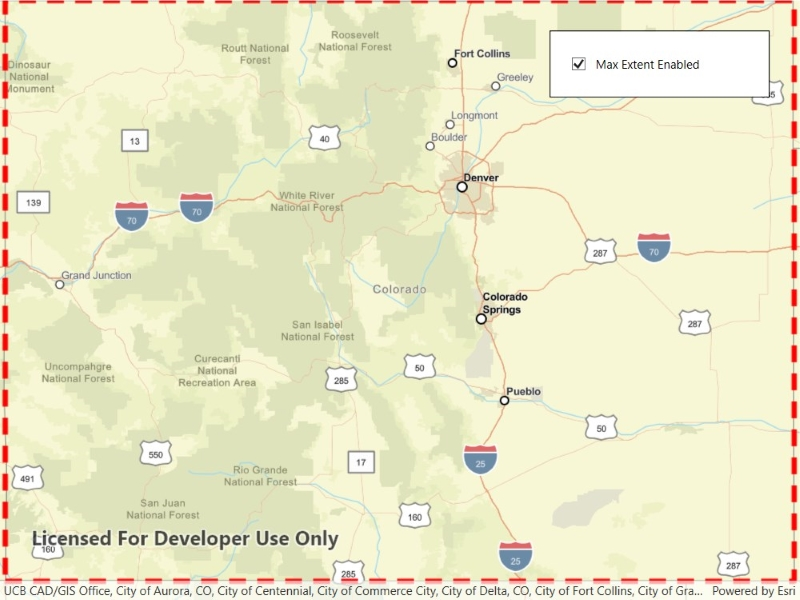
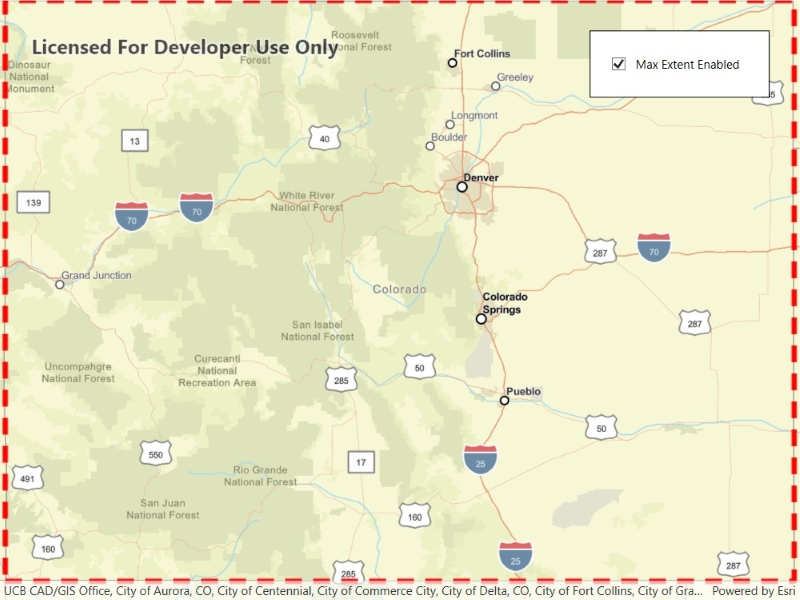
Updated screenshots and xaml

Changed region(s): [[0.0312, 0.87, 0.4375, 0.93], [0.6875, 0.03, 0.9375, 0.18], [0.0312, 0.06, 0.4375, 0.09]]

diff --git a/src/WPF/ArcGISRuntime.WPF.Viewer/Samples/Map/SetMaxExtent/SetMaxExtent.xaml b/src/WPF/ArcGISRuntime.WPF.Viewer/Samples/Map/SetMaxExtent/SetMaxExtent.xaml
@@ -4,21 +4,14 @@
              xmlns:esri="http://schemas.esri.com/arcgis/runtime/2013">
     <Grid>
         <esri:MapView x:Name="MyMapView" />
-        <Border MaxWidth="220" Style="{StaticResource BorderStyle}">
-            <Grid>
-                <Grid.ColumnDefinitions>
-                    <ColumnDefinition Width="auto" />
-                    <ColumnDefinition Width="auto" />
-                </Grid.ColumnDefinitions>
-                <CheckBox x:Name="MaxExtentCheckBox"
-                          Grid.Column="0"
-                          VerticalAlignment="Center"
-                          VerticalContentAlignment="Center"
-                          Checked="MaxExtentCheckBoxChanged"
-                          Unchecked="MaxExtentCheckBoxChanged">
-                    <Label Grid.Column="1" Content="Max Extent Enabled" />
-                </CheckBox>
-            </Grid>
+        <Border MaxWidth="180" Style="{StaticResource BorderStyle}">
+            <CheckBox x:Name="MaxExtentCheckBox"
+                      VerticalAlignment="Center"
+                      VerticalContentAlignment="Center"
+                      Checked="MaxExtentCheckBoxChanged"
+                      Unchecked="MaxExtentCheckBoxChanged">
+                <Label Content="Max Extent Enabled" />
+            </CheckBox>
         </Border>
     </Grid>
 </UserControl>

diff --git a/src/WinUI/ArcGISRuntime.WinUI.Viewer/Samples/Map/SetMaxExtent/SetMaxExtent.xaml b/src/WinUI/ArcGISRuntime.WinUI.Viewer/Samples/Map/SetMaxExtent/SetMaxExtent.xaml
@@ -4,21 +4,14 @@
              xmlns:esriUI="using:Esri.ArcGISRuntime.UI.Controls">
     <Grid>
         <esriUI:MapView x:Name="MyMapView" />
-        <Border MaxWidth="220" Style="{StaticResource BorderStyle}">
-            <Grid>
-                <Grid.ColumnDefinitions>
-                    <ColumnDefinition Width="auto" />
-                    <ColumnDefinition Width="auto" />
-                </Grid.ColumnDefinitions>
-                <CheckBox x:Name="MaxExtentCheckBox"
-                          Grid.Column="0"
-                          VerticalAlignment="Center"
-                          VerticalContentAlignment="Center"
-                          Checked="MaxExtentCheckBoxChanged"
-                          Unchecked="MaxExtentCheckBoxChanged">
-                    <TextBlock Grid.Column="1" Text="Max Extent Enabled" />
-                </CheckBox>
-            </Grid>
+        <Border MaxWidth="200" Style="{StaticResource BorderStyle}">
+            <CheckBox x:Name="MaxExtentCheckBox"
+                      VerticalAlignment="Center"
+                      VerticalContentAlignment="Center"
+                      Checked="MaxExtentCheckBoxChanged"
+                      Unchecked="MaxExtentCheckBoxChanged">
+                <TextBlock Text="Max Extent Enabled" />
+            </CheckBox>
         </Border>
     </Grid>
 </UserControl>
